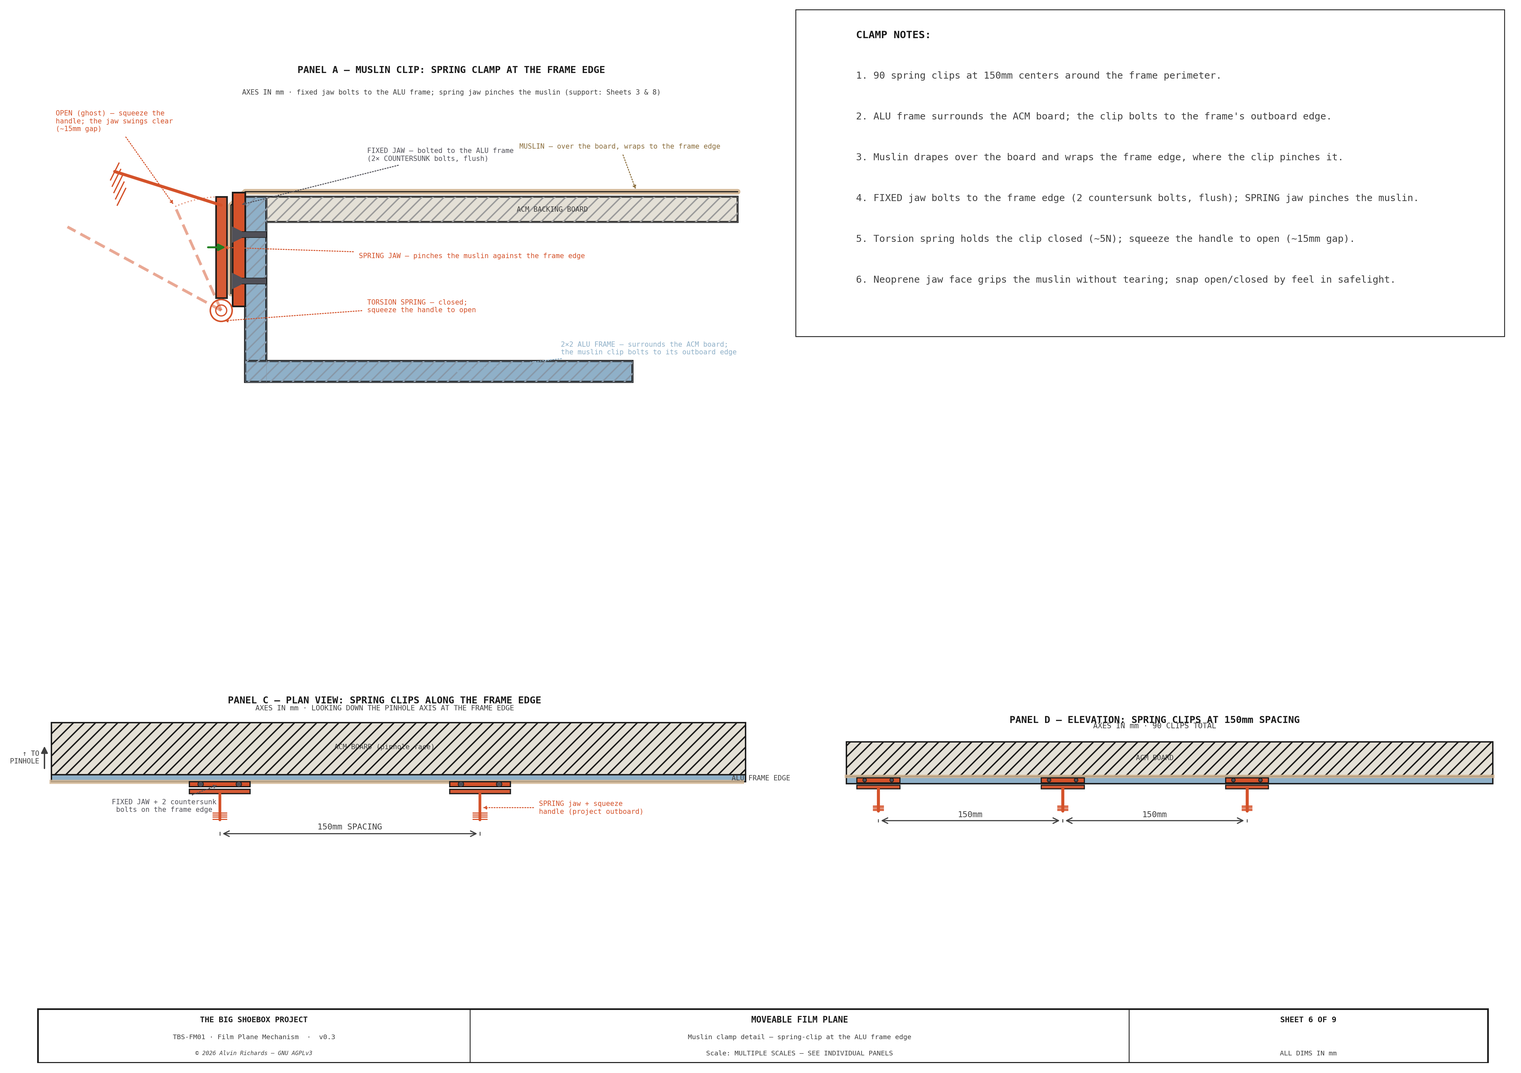
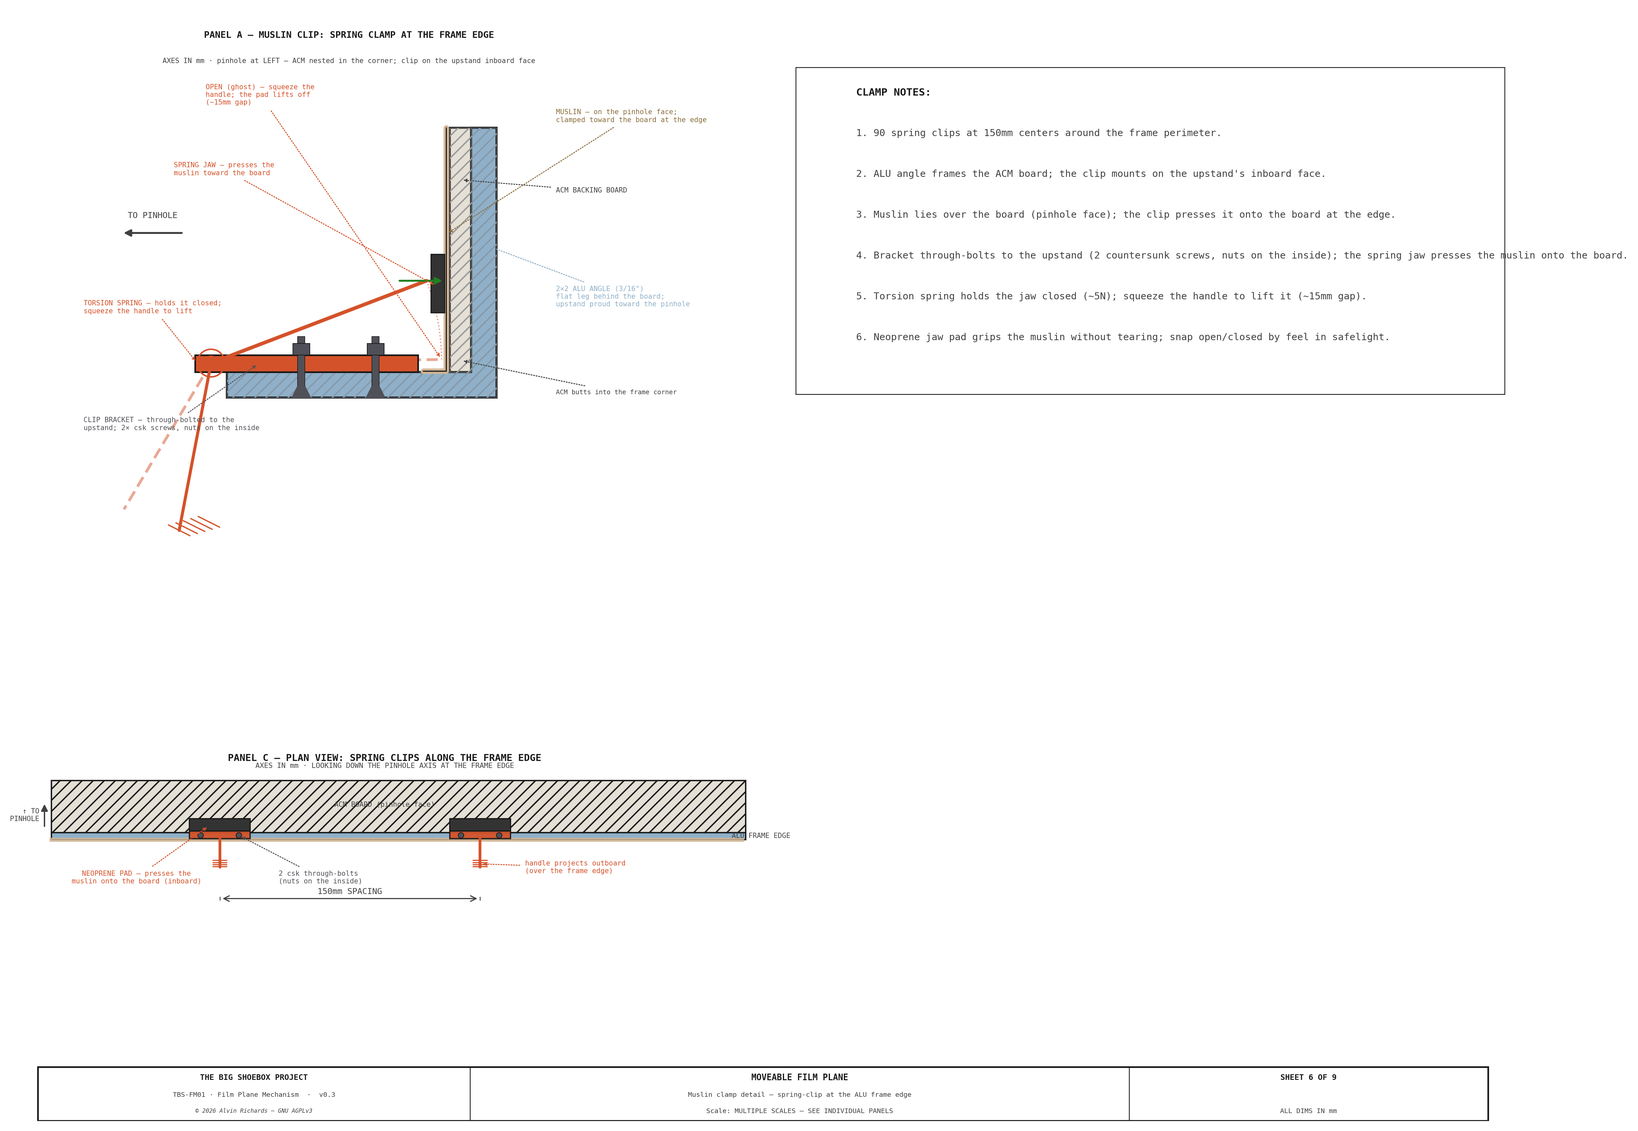
Sheet 6: rotate Panel A to pinhole-left, inside press-down clip; rework C; drop D
- Panel A rotated 90° CCW (pinhole at left, matching Sheet 9 View B). ALU angle now
  drawn as a single L-section (no false seam between the legs). Clip moved to the
  upstand INBOARD face and reoriented to press the muslin toward the board; the 2
  securing screws are through-bolted with nuts on the inside edge.
- Panel C: clips repositioned to the inside of the frame (neoprene pad on the board,
  through-bolts, handle projecting outboard); labels kept clear of the board.
- Panel D removed — it only re-stated Panel C's 150mm spacing.
- Clamp notes reworded (press onto the board / through-bolts, nuts on the inside).

diff --git a/src/generators/generate_film_plane_mechanism.py b/src/generators/generate_film_plane_mechanism.py
@@ -25,7 +25,7 @@ import numpy as np
 import matplotlib
 matplotlib.use("Agg")
 import matplotlib.pyplot as plt
-from matplotlib.patches import Rectangle, Circle, Arc
+from matplotlib.patches import Rectangle, Circle, Arc, Polygon
 
 from tbs_constants import FP_X_L, FP_X_R, FP_Y, FP_Y_MIN, FP_W, FP_H, PH_X as PH_X_C, MAX_TILT_DEG, MAX_SWING_DEG, DIAGRAMS_DIR, FP_ANGLE_LEG, FP_ANGLE_T, CLAMP_SPACING, CLAMP_BASE_W, CLAMP_BASE_H, CLAMP_BASE_T, CLAMP_LEVER_L, CLAMP_JAW_W, CLAMP_JAW_H, CLAMP_JAW_T, CLAMP_OPEN_GAP, CLAMP_SPRING_F, CLAMP_N_TOTAL, BRACE_Z_BOT, BRACE_Z_TOP, C_WID, WALL_T, IBC_WBKT_PLATE_W, IBC_WBKT_SEAT_PROJ, IBC_WBKT_SEAT_T, DRUM_CY, DRUM_R, DRUM_CX, DRUM_D
 from tbs_title_block import title_block
@@ -1360,112 +1360,134 @@ def sheet6():
     LEG = FP_ANGLE_LEG   # 50.8mm
     T   = FP_ANGLE_T     # 4.8mm
 
-    # Cross-section at the frame edge (outboard = -x left, image = +x right,
-    # pinhole = +y up). Per Alvin's sketch: a SPRING CLIP holds the muslin at the
-    # ALU frame edge — a FIXED jaw BOLTED to the frame + a SPRING-loaded jaw that
-    # pinches the muslin against the frame edge; squeeze the handle to open. The
-    # ACM backing board sits behind the muslin. Support chain (rail->skate->slides
-    # ->U-joint) is on Sheets 3 & 8.
-    ax_a.set_xlim(-40, 134)
-    ax_a.set_ylim(-46, 38)
+    # Cross-section at the frame edge, ROTATED 90° CCW so the PINHOLE is at LEFT
+    # (matching Sheet 9 View B). The geometry below is authored in a "logical" frame
+    # (pinhole = +y up, outboard = -x) and every primitive is pushed through _R (a
+    # 90° CCW rotation) on the way to the axes; leaders/titles are placed directly in
+    # the rotated frame. Per Sheet 9: the ACM board is NESTED into the corner of the
+    # 2×2 ALU angle — butted against the flat leg (behind the board) AND against the
+    # upstand leg. The upstand stands PROUD toward the pinhole; the clip mounts on the
+    # upstand INBOARD face and presses the muslin toward the board. Support chain
+    # (rail->skate->slides->U-joint) is on Sheets 3 & 8.
+    ACM_T = 4                                    # ACM board thickness (matches Sheet 9)
+    XO    = 11                                    # upstand outboard face (logical x)
+    XI    = XO + T                                # upstand inboard face (logical x = 15.8)
+    BL    = 46                                    # board length shown (cut short)
+    ax_a.set_xlim(-74, 46)
+    ax_a.set_ylim(-24, 84)
     ax_a.set_aspect("equal")
 
     C_ACM = "#E4E0D6"
 
-    # ── ACM backing board (hatched) — muslin lies on its pinhole (top) face ────
-    ax_a.add_patch(Rectangle((16, 0), 112, 6, fc=C_ACM, ec=ANNO, lw=1.4, zorder=3))
-    ax_a.add_patch(Rectangle((16, 0), 112, 6, fc="none", ec="#9a9a9a", lw=0.3,
-                              hatch="///", zorder=4))
-    ax_a.text((84), (3), "ACM BACKING BOARD", ha="center", va="center",
-              fontsize=5, color=DIM, **FONT, zorder=15)
+    def _R(x, y):                                # 90° CCW rotation
+        return (-y, x)
+    def _rr(x, y, w, h, **kw):                   # rotated rectangle
+        nx, ny = -(y + h), x
+        ax_a.add_patch(Rectangle((nx, ny), h, w, **kw))
+    def _rc(cx, cy, r, **kw):                    # rotated circle
+        ax_a.add_patch(Circle(_R(cx, cy), r, **kw))
+    def _rl(xs, ys, **kw):                        # rotated polyline
+        p = [_R(a, b) for a, b in zip(xs, ys)]
+        ax_a.plot([q[0] for q in p], [q[1] for q in p], **kw)
+    def _rf(xs, ys, **kw):                        # rotated filled polygon
+        p = [_R(a, b) for a, b in zip(xs, ys)]
+        ax_a.fill([q[0] for q in p], [q[1] for q in p], **kw)
 
-    # ── ALU frame — L cradling the board: a vertical outboard leg (the FRAME EDGE
-    #    the clip bolts to) + a horizontal bottom leg under the board.
-    #    (An offset-T refinement is parked for later — see TODO.) ────────────────
-    FR_T = 5
-    for (rx, ry, rw, rh) in [(11, -38, FR_T, 44), (11, -38, 92, FR_T)]:
-        ax_a.add_patch(Rectangle((rx, ry), rw, rh, fc=C_FRAME, ec=ANNO, lw=1.5, zorder=3))
-        ax_a.add_patch(Rectangle((rx, ry), rw, rh, fc="none", ec="#8898A8",
-                                  lw=0.3, hatch="///", zorder=4))
-    leader(ax_a, (60), (-35.5), (86), (-30),
-           "2×2 ALU FRAME — surrounds the ACM board;\nthe muslin clip bolts to its outboard edge",
+    # ── 2×2 (50.8) × 3/16" (4.8) ALU angle — a SINGLE L-section (no internal seam) ─
+    _Lpts = [_R(x, y) for (x, y) in
+             [(XO, -T), (XO + LEG, -T), (XO + LEG, 0), (XI, 0), (XI, -T + LEG), (XO, -T + LEG)]]
+    ax_a.add_patch(Polygon(_Lpts, closed=True, fc=C_FRAME, ec=ANNO, lw=1.5, zorder=3))
+    ax_a.add_patch(Polygon(_Lpts, closed=True, fc="none", ec="#8898A8", lw=0.3, hatch="///", zorder=4))
+    leader(ax_a, (2), (40), (16), (30),
+           "2×2 ALU ANGLE (3/16\")\nflat leg behind the board;\nupstand proud toward the pinhole",
            color=C_FRAME, fs=5, ha="left", va="center", arrow_style="-|>", font=FONT)
 
-    # ── Muslin — over the board, wraps over the frame edge and down the outboard
-    #    face, where the clip pinches it ─────────────────────────────────────────
-    mx = [128, 11, 7.6, 7.6]
-    my = [7.2, 7.2, 4, -17]
-    ax_a.plot(mx, my, color=C_MUSLIN, lw=4, solid_capstyle="round", zorder=6, alpha=0.95)
-    ax_a.plot(mx, my, color=ANNO, lw=0.8, zorder=6.5)
-    leader(ax_a, (104), (7.2), (100), (18),
-           "MUSLIN — over the board, wraps to the frame edge",
-           color="#8a6d3b", fs=5, ha="center", va="center", arrow_style="-|>", font=FONT)
+    # ── ACM backing board — NESTED in the corner ─────────────────────────────────
+    _rr(XI, 0, BL, ACM_T, fc=C_ACM, ec=ANNO, lw=1.4, zorder=3)
+    _rr(XI, 0, BL, ACM_T, fc="none", ec="#9a9a9a", lw=0.3, hatch="///", zorder=4)
+    leader(ax_a, (-2), (52), (16), (50),
+           "ACM BACKING BOARD", color=DIM, fs=5, ha="left", va="center", arrow_style="-|>", font=FONT)
+    leader(ax_a, (-2), (18), (16), (12),
+           "ACM butts into the frame corner",
+           color=DIM, fs=4.7, ha="left", va="center", arrow_style="-|>", font=FONT)
 
-    # ── Spring clip ───────────────────────────────────────────────────────────
-    # FIXED jaw — bolted to the frame's outboard face (x=11) with COUNTERSUNK bolts
-    ax_a.add_patch(Rectangle((8, -20), 3, 27, fc=C_CLAMP, ec=ANNO, lw=1.2, zorder=7))
-    def _csk_bolt(by):   # countersunk head flush on the fixed-jaw outboard face + shank into the frame
-        ax_a.fill([8, 8, 10, 10], [by - 1.7, by + 1.7, by + 0.7, by - 0.7],
-                  color=C_BOLT, zorder=11)
-        ax_a.add_patch(Rectangle((10, by - 0.7), 6, 1.4, fc=C_BOLT, ec=ANNO, lw=0.4, zorder=10))
-    _csk_bolt(-3); _csk_bolt(-14)
-    # SPRING jaw — pinches the muslin (+x) against the fixed jaw
-    ax_a.add_patch(Rectangle((4, -18), 2.6, 24, fc=C_CLAMP, ec=ANNO, lw=1.2,
-                              zorder=7, alpha=0.95))
-    ax_a.annotate("", xy=(7.0, -6), xytext=(1.5, -6),
-                  arrowprops=dict(arrowstyle="-|>", color="#208020", lw=1.4), zorder=12)
-    # torsion-spring coil at the pivot (bottom)
-    ax_a.add_patch(Circle((5.3, -21), 2.6, fc="none", ec=C_CLAMP, lw=1.1, zorder=8))
-    ax_a.add_patch(Circle((5.3, -21), 1.3, fc="none", ec=C_CLAMP, lw=0.9, zorder=8))
-    # squeeze handle — extends outboard from the spring jaw (knurled tip)
-    ax_a.plot([5.3, -20], [4, 12], color=C_CLAMP, lw=2.2, solid_capstyle="round", zorder=7)
+    # ── Muslin — over the board (pinhole face); a short tuck around the upstand ───
+    mx = [XI + BL, XI + 0.2, XI + 0.2]
+    my = [ACM_T + 0.7, ACM_T + 0.7, 9]
+    _rl(mx, my, color=C_MUSLIN, lw=4, solid_capstyle="round", zorder=6, alpha=0.95)
+    _rl(mx, my, color=ANNO, lw=0.8, zorder=6.5)
+    leader(ax_a, _R(XI + 26, ACM_T + 0.7)[0], _R(XI + 26, ACM_T + 0.7)[1], (16), (64),
+           "MUSLIN — on the pinhole face;\nclamped toward the board at the edge",
+           color="#8a6d3b", fs=5, ha="left", va="center", arrow_style="-|>", font=FONT)
+
+    # ── Spring clip — mounted on the INBOARD side of the upstand; presses the muslin
+    #    toward the board. Bracket bolted through the upstand, nuts on the inside. ──
+    _rr(XI, 10, 3.2, 42, fc=C_CLAMP, ec=ANNO, lw=1.2, zorder=7)                      # bracket
+    def _thru_bolt(by):   # csk head flush on the upstand OUTBOARD face; shank THROUGH the leg + bracket; NUT on the inside edge
+        _rf([XO, XO, XO + 2, XO + 2], [by - 1.7, by + 1.7, by + 0.7, by - 0.7], color=C_BOLT, zorder=11)   # csk head
+        _rr(XO + 2, by - 0.7, 9.5, 1.4, fc=C_BOLT, ec=ANNO, lw=0.4, zorder=10)                              # shank through to inside
+        _rr(XI + 3.2, by - 1.6, 2.2, 3.2, fc=C_BOLT, ec=ANNO, lw=0.5, zorder=11)                            # hex NUT on the inside edge
+    _thru_bolt(18); _thru_bolt(32)
+    _rl([17.5, 33], [49, 8.4], color=C_CLAMP, lw=2.6, solid_capstyle="round", zorder=7)   # lever
+    _rr(27, 5.0, 11, 2.6, fc=C_NEOP, ec=ANNO, lw=0.8, zorder=8)                            # neoprene pad
+    ax_a.annotate("", xy=_R(33, 4.9), xytext=_R(33, 14),
+                  arrowprops=dict(arrowstyle="-|>", color="#208020", lw=1.4), zorder=12)   # press force (toward board)
+    _rc(17.5, 49, 2.6, fc="none", ec=C_CLAMP, lw=1.1, zorder=9)                            # torsion coil
+    _rc(17.5, 49, 1.3, fc="none", ec=C_CLAMP, lw=0.9, zorder=9)
+    _rl([17.5, -14], [49, 55], color=C_CLAMP, lw=2.2, solid_capstyle="round", zorder=7)    # squeeze handle
     for i in range(5):
-        ax_a.plot([-20 - 1 + i * 0.4, -18 - 1 + i * 0.4],
-                  [10 - i * 1.5, 14 - i * 1.5], color=C_CLAMP, lw=0.9, zorder=8)
+        _rl([-14 - 1 + i * 0.4, -12 - 1 + i * 0.4], [53 - i * 1.4, 57 - i * 1.4],
+            color=C_CLAMP, lw=0.9, zorder=8)
 
-    # ── OPEN position (ghost) — squeeze the handle; the spring jaw + handle swing
-    #    about the coil so the jaw lifts off the muslin. Dashed + arc + note. ────
+    # ── OPEN position (ghost) — squeeze the handle; the pad lifts off the muslin ──
     import math as _ma
-    _pv = (5.3, -21)                             # pivot (torsion-spring coil)
+    _pv = (17.5, 49)                             # pivot (torsion-spring coil), logical
     def _rot(p, deg):
         a = _ma.radians(deg); dx, dy = p[0] - _pv[0], p[1] - _pv[1]
         return (_pv[0] + dx * _ma.cos(a) - dy * _ma.sin(a),
                 _pv[1] + dx * _ma.sin(a) + dy * _ma.cos(a))
-    _od = 24                                     # open swing (deg, CCW = jaw lifts outboard)
-    _jt_c = (5.3, 6)                             # closed spring-jaw top
-    _jt_o = _rot(_jt_c, _od)
-    _ht_o = _rot((-20, 12), _od)
-    ax_a.plot([_pv[0], _jt_o[0]], [_pv[1], _jt_o[1]], color=C_CLAMP, lw=2.0,
-              ls=(0, (4, 2)), alpha=0.5, zorder=6)
-    ax_a.plot([_pv[0], _ht_o[0]], [_pv[1], _ht_o[1]], color=C_CLAMP, lw=2.0,
-              ls=(0, (4, 2)), alpha=0.5, zorder=6)
-    _r = _ma.hypot(_jt_c[0] - _pv[0], _jt_c[1] - _pv[1])
-    _a_c = _ma.degrees(_ma.atan2(_jt_c[1] - _pv[1], _jt_c[0] - _pv[0]))
-    ax_a.add_patch(Arc(_pv, 2 * _r, 2 * _r, angle=0, theta1=_a_c, theta2=_a_c + _od,
+    _od = -20
+    _pad_c = (33, 8.4)
+    _pad_o = _rot(_pad_c, _od)
+    _ht_o = _rot((-14, 55), _od)
+    _rl([_pv[0], _pad_o[0]], [_pv[1], _pad_o[1]], color=C_CLAMP, lw=2.0, ls=(0, (4, 2)), alpha=0.5, zorder=6)
+    _rl([_pv[0], _ht_o[0]], [_pv[1], _ht_o[1]], color=C_CLAMP, lw=2.0, ls=(0, (4, 2)), alpha=0.5, zorder=6)
+    _r = _ma.hypot(_pad_c[0] - _pv[0], _pad_c[1] - _pv[1])
+    _a_c = _ma.degrees(_ma.atan2(_pad_c[1] - _pv[1], _pad_c[0] - _pv[0]))
+    ax_a.add_patch(Arc(_R(*_pv), 2 * _r, 2 * _r, angle=0, theta1=_a_c + _od + 90, theta2=_a_c + 90,
                         color=C_CLAMP, lw=0.9, ls=":", alpha=0.6, zorder=6))
-    leader(ax_a, _jt_o[0], _jt_o[1], (-34), (24),
-           f"OPEN (ghost) — squeeze the\nhandle; the jaw swings clear\n(~{CLAMP_OPEN_GAP}mm gap)",
+    _po = _R(*_pad_o)
+    leader(ax_a, _po[0], _po[1], (-50), (68),
+           f"OPEN (ghost) — squeeze the\nhandle; the pad lifts off\n(~{CLAMP_OPEN_GAP}mm gap)",
            color=C_CLAMP, fs=5, ha="left", va="center", arrow_style="-|>", font=FONT)
 
-    # Leaders
-    leader(ax_a, (9.5), (4), (40), (16),
-           "FIXED JAW — bolted to the ALU frame\n(2× COUNTERSUNK bolts, flush)",
+    # Leaders (rotated frame)
+    _b = _R(XI + 1.6, 40)
+    leader(ax_a, _b[0], _b[1], (-73), (6),
+           "CLIP BRACKET — through-bolted to the\nupstand; 2× csk screws, nuts on the inside",
            color=C_BOLT, fs=5, ha="left", va="center", arrow_style="-|>", font=FONT)
-    leader(ax_a, (5.3), (-6), (38), (-8),
-           "SPRING JAW — pinches the muslin against the frame edge",
+    _p = _R(32, 6.5)
+    leader(ax_a, _p[0], _p[1], (-56), (54),
+           "SPRING JAW — presses the\nmuslin toward the board",
            color=C_CLAMP, fs=5, ha="left", va="center", arrow_style="-|>", font=FONT)
-    leader(ax_a, (5.3), (-23.5), (40), (-20),
-           "TORSION SPRING — closed;\nsqueeze the handle to open",
+    _c = _R(17.5, 51.6)
+    leader(ax_a, _c[0], _c[1], (-73), (28),
+           "TORSION SPRING — holds it closed;\nsqueeze the handle to lift",
            color=C_CLAMP, fs=5, ha="left", va="center", arrow_style="-|>", font=FONT)
+
+    # → TO PINHOLE (pinhole is at left)
+    ax_a.annotate("", xy=(-66, 42), xytext=(-54, 42),
+                  arrowprops=dict(arrowstyle="-|>", color=DIM, lw=1.4))
+    ax_a.text(-60, 44.5, "TO PINHOLE", ha="center", va="bottom", fontsize=6, color=DIM, **FONT)
 
     # Panel title
-    ax_a.text((60), (35),
+    ax_a.text((-23), (80),
               "PANEL A — MUSLIN CLIP: SPRING CLAMP AT THE FRAME EDGE",
-              ha="center", va="bottom", fontsize=7, color=ANNO,
+              ha="center", va="top", fontsize=6.6, color=ANNO,
               fontweight="bold", **FONT, zorder=15)
-    ax_a.text((60), (30),
-              "AXES IN mm · fixed jaw bolts to the ALU frame; spring jaw pinches the muslin (support: Sheets 3 & 8)",
-              ha="center", va="bottom", fontsize=5.0, color=DIM, **FONT, zorder=15)
+    ax_a.text((-23), (75),
+              "AXES IN mm · pinhole at LEFT — ACM nested in the corner; clip on the upstand inboard face",
+              ha="center", va="top", fontsize=5.0, color=DIM, **FONT, zorder=15)
 
     # ── CLAMP NOTES (top-right) — Panel B (a separate open/closed diagram) was
     #    redundant and removed; open/closed is now shown INLINE on Panel A as a
@@ -1501,30 +1523,35 @@ def sheet6():
     # muslin wraps the edge (a line along the edge)
     ax_c.plot([-22, frame_len + 36], [0, 0], color=C_MUSLIN, lw=3, alpha=0.85, zorder=5)
 
-    # 2 spring clips at 150mm spacing (footprint seen from above)
+    # 2 spring clips at 150mm — CLIP ON THE INSIDE of the frame: neoprene pad on the
+    # board (inboard), bracket through-bolted in the upstand, handle projecting outboard
     for cx in [CLAMP_SPACING * 0.5, CLAMP_SPACING * 1.5]:
-        # fixed jaw on the frame edge + 2 countersunk bolts (spaced along the edge)
-        ax_c.add_patch(Rectangle((cx - CLAMP_JAW_W / 2, -3), CLAMP_JAW_W, 3,
-                                  fc=C_CLAMP, ec=ANNO, lw=0.9, zorder=7))
-        for boff in (-11, 11):
-            ax_c.add_patch(Circle((cx + boff, -1.5), 1.6, fc=C_BOLT, ec=ANNO, lw=0.5, zorder=9))
-        # spring jaw + squeeze handle projecting outboard (-Y)
-        ax_c.add_patch(Rectangle((cx - CLAMP_JAW_W / 2, -7), CLAMP_JAW_W, 2.6,
+        # neoprene pad pressing the muslin onto the board (inboard side, +Y)
+        ax_c.add_patch(Rectangle((cx - CLAMP_JAW_W / 2, 5), CLAMP_JAW_W, 7,
+                                  fc=C_NEOP, ec=ANNO, lw=0.9, zorder=7))
+        # bracket footprint on the upstand + 2 through-bolts (nuts on the inside)
+        ax_c.add_patch(Rectangle((cx - CLAMP_JAW_W / 2, 0.5), CLAMP_JAW_W, 4.5,
                                   fc=C_CLAMP, ec=ANNO, lw=0.9, alpha=0.95, zorder=6))
-        ax_c.plot([cx, cx], [-7, -22], color=C_CLAMP, lw=2.0, solid_capstyle="round", zorder=6)
+        for boff in (-11, 11):
+            ax_c.add_patch(Circle((cx + boff, 2.4), 1.6, fc=C_BOLT, ec=ANNO, lw=0.5, zorder=9))
+        # squeeze handle projecting OUTBOARD (over the frame edge, -Y)
+        ax_c.plot([cx, cx], [0.5, -16], color=C_CLAMP, lw=2.0, solid_capstyle="round", zorder=6)
         for i in range(4):   # knurled grip
-            ax_c.plot([cx - 4, cx + 4], [-18 - i * 1.2, -18 - i * 1.2], color=C_CLAMP, lw=0.8, zorder=6)
+            ax_c.plot([cx - 4, cx + 4], [-12 - i * 1.2, -12 - i * 1.2], color=C_CLAMP, lw=0.8, zorder=6)
 
-    # Leaders
-    leader(ax_c, (CLAMP_SPACING * 0.5), (-1.5), (CLAMP_SPACING * 0.5 - 32), (-14),
-           "FIXED JAW + 2 countersunk\nbolts on the frame edge",
-           color=C_BOLT, fs=5, ha="center", va="center", arrow_style="-|>", font=FONT)
-    leader(ax_c, (CLAMP_SPACING * 1.5), (-15), (CLAMP_SPACING * 1.5 + 34), (-15),
-           "SPRING jaw + squeeze\nhandle (project outboard)",
+    # Leaders (kept below the frame edge — clear of the board)
+    leader(ax_c, (CLAMP_SPACING * 0.5 - 6), (8), (CLAMP_SPACING * 0.5 - 48), (-22),
+           "NEOPRENE PAD — presses the\nmuslin onto the board (inboard)",
+           color=C_CLAMP, fs=5, ha="center", va="center", arrow_style="-|>", font=FONT)
+    leader(ax_c, (CLAMP_SPACING * 0.5 + 11), (2.4), (CLAMP_SPACING * 0.5 + 34), (-22),
+           "2 csk through-bolts\n(nuts on the inside)",
+           color=C_BOLT, fs=5, ha="left", va="center", arrow_style="-|>", font=FONT)
+    leader(ax_c, (CLAMP_SPACING * 1.5), (-14), (CLAMP_SPACING * 1.5 + 26), (-16),
+           "handle projects outboard\n(over the frame edge)",
            color=C_CLAMP, fs=5, ha="left", va="center", arrow_style="-|>", font=FONT)
 
     # Spacing dimension
-    draw_dim_h(ax_c, (CLAMP_SPACING * 0.5), (CLAMP_SPACING * 1.5), (-30),
+    draw_dim_h(ax_c, (CLAMP_SPACING * 0.5), (CLAMP_SPACING * 1.5), (-34),
                f"{CLAMP_SPACING}mm SPACING", offset=(3), fs=6, font=FONT)
     # direction arrow
     ax_c.annotate("", xy=(-26, 22), xytext=(-26, 6),
@@ -1539,61 +1566,18 @@ def sheet6():
               "AXES IN mm · LOOKING DOWN THE PINHOLE AXIS AT THE FRAME EDGE",
               ha="center", va="bottom", fontsize=5.2, color=DIM, **FONT, zorder=15)
 
-    # ── PANEL D: Elevation — 3 clamps at 150mm spacing (bottom-right) ────────
-    ax_d = fig.add_axes([0.54, 0.06, 0.42, 0.36])
-    ax_d.set_facecolor(BG)
-    ax_d.axis("off")
-
-
-    span = CLAMP_SPACING * 3  # show 3 spacings = 450mm
-    ax_d.set_xlim(-42, span + 52)
-    ax_d.set_ylim(-40, 52)
-    ax_d.set_aspect("equal")
-
-    # Elevation looking at the frame's outboard face: ACM board above, frame edge
-    # band below, spring clips mounted on the edge at 150mm.
-    ax_d.add_patch(Rectangle((-26, 6), span + 76, 28, fc="#E4E0D6", ec=ANNO, lw=1.0,
-                              hatch="///", zorder=3))
-    ax_d.text((span / 2), (21), "ACM BOARD", ha="center", va="center",
-              fontsize=5, color=DIM, **FONT, zorder=15)
-    ax_d.add_patch(Rectangle((-26, 0), span + 76, 6, fc=C_FRAME, ec=ANNO, lw=1.0, zorder=4))
-    ax_d.plot([-26, span + 50], [6, 6], color=C_MUSLIN, lw=2.5, alpha=0.85, zorder=5)
-
-    # 3 spring clips at 150mm — face-on: fixed jaw bar (bolted) + spring jaw bar
-    # + squeeze handle hanging down
-    for cx in [0, CLAMP_SPACING, CLAMP_SPACING * 2]:
-        ax_d.add_patch(Rectangle((cx - CLAMP_JAW_W / 2, 1), CLAMP_JAW_W, 4,
-                                  fc=C_CLAMP, ec=ANNO, lw=0.8, zorder=7))       # fixed jaw on the edge
-        for boff in (-11, 11):
-            ax_d.add_patch(Circle((cx + boff, 3), 1.5, fc=C_BOLT, ec=ANNO, lw=0.5, zorder=9))
-        ax_d.add_patch(Rectangle((cx - CLAMP_JAW_W / 2, -4), CLAMP_JAW_W, 3,
-                                  fc=C_CLAMP, ec=ANNO, lw=0.8, alpha=0.95, zorder=6))  # spring jaw
-        ax_d.plot([cx, cx], [-4, -22], color=C_CLAMP, lw=2.2, solid_capstyle="round", zorder=6)  # handle
-        for i in range(4):
-            ax_d.plot([cx - 4, cx + 4], [-18 - i * 1.2, -18 - i * 1.2], color=C_CLAMP, lw=0.8, zorder=6)
-
-    # Spacing dims
-    for i in range(2):
-        draw_dim_h(ax_d, CLAMP_SPACING * i, CLAMP_SPACING * (i + 1), -30,
-                   f"{CLAMP_SPACING}mm", offset=(3), fs=6, font=FONT)
-
-    ax_d.text((span / 2), (48),
-              "PANEL D — ELEVATION: SPRING CLIPS AT 150mm SPACING",
-              ha="center", va="bottom", fontsize=7, color=ANNO,
-              fontweight="bold", **FONT, zorder=15)
-    ax_d.text((span / 2), (44),
-              f"AXES IN mm · {CLAMP_N_TOTAL} CLIPS TOTAL",
-              ha="center", va="bottom", fontsize=5.5, color=DIM, **FONT, zorder=15)
+    # ── PANEL D removed — the elevation only re-stated Panel C's 150mm spacing.
+    #    Bottom-right is free for a repurposed detail if wanted (see report TODO).
 
     # Notes — CLAMP NOTES panel (top-right; ax_b, 0–100 data coords)
     notes = [
         "CLAMP NOTES:",
         f"1. {CLAMP_N_TOTAL} spring clips at {CLAMP_SPACING}mm centers around the frame perimeter.",
-        "2. ALU frame surrounds the ACM board; the clip bolts to the frame's outboard edge.",
-        "3. Muslin drapes over the board and wraps the frame edge, where the clip pinches it.",
-        "4. FIXED jaw bolts to the frame edge (2 countersunk bolts, flush); SPRING jaw pinches the muslin.",
-        f"5. Torsion spring holds the clip closed (~{CLAMP_SPRING_F}N); squeeze the handle to open (~{CLAMP_OPEN_GAP}mm gap).",
-        "6. Neoprene jaw face grips the muslin without tearing; snap open/closed by feel in safelight.",
+        "2. ALU angle frames the ACM board; the clip mounts on the upstand's inboard face.",
+        "3. Muslin lies over the board (pinhole face); the clip presses it onto the board at the edge.",
+        "4. Bracket through-bolts to the upstand (2 countersunk screws, nuts on the inside); the spring jaw presses the muslin onto the board.",
+        f"5. Torsion spring holds the jaw closed (~{CLAMP_SPRING_F}N); squeeze the handle to lift it (~{CLAMP_OPEN_GAP}mm gap).",
+        "6. Neoprene jaw pad grips the muslin without tearing; snap open/closed by feel in safelight.",
     ]
     notes_x = 2
     notes_y_start = 96
